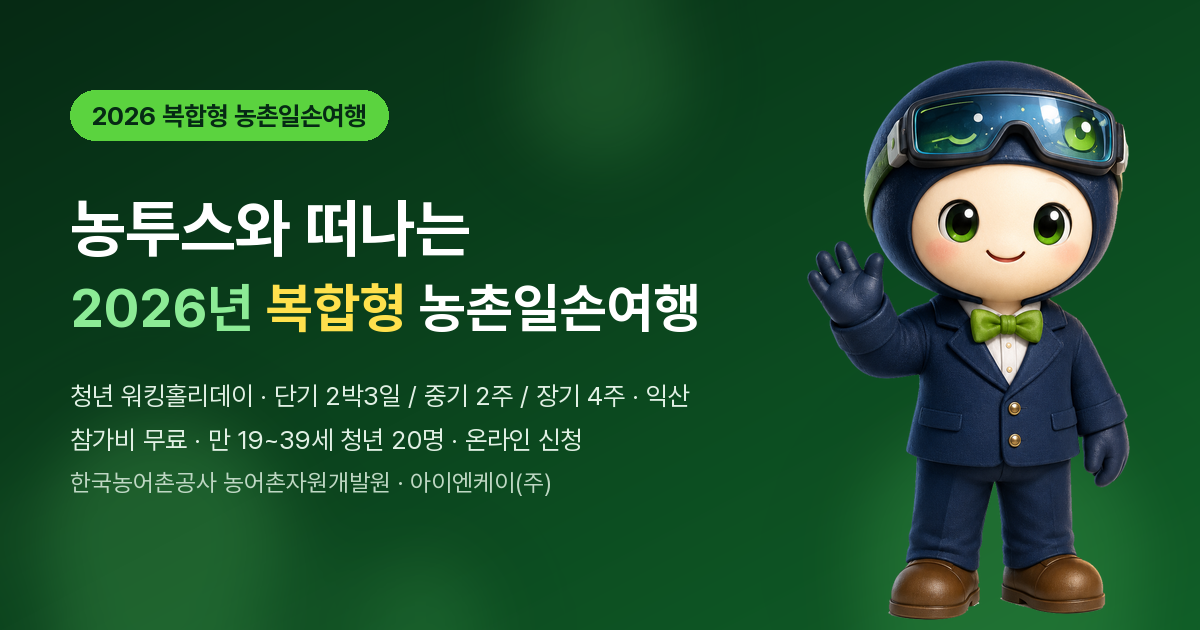
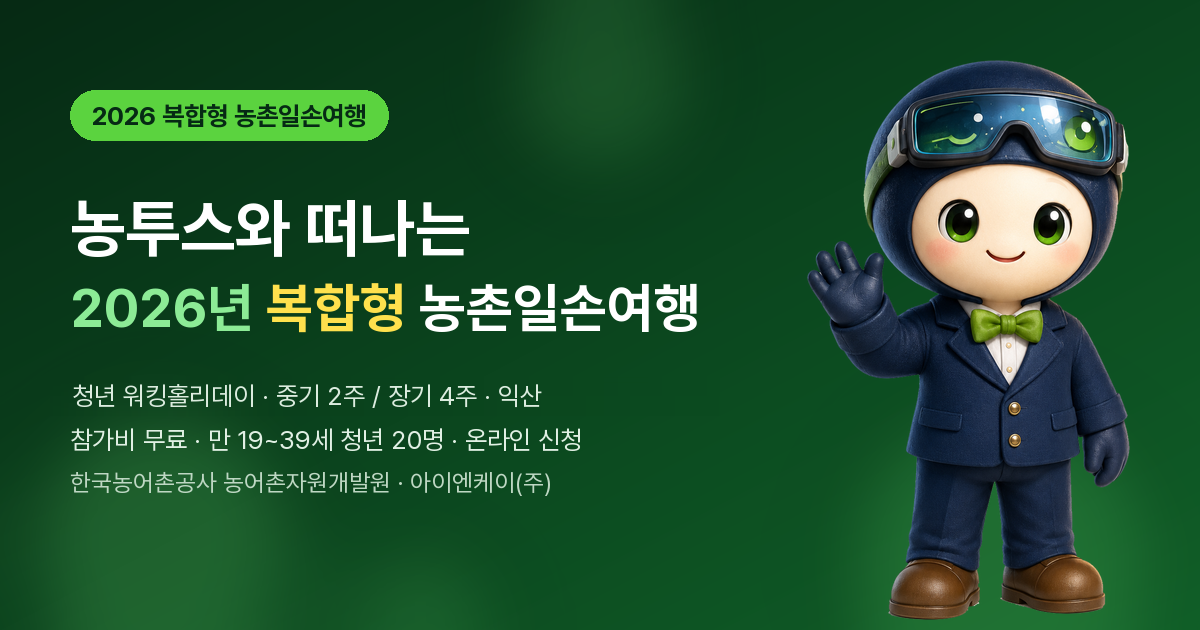
youth gateway: 단기형 공개 차단·미리보기 이미지 갱신(card_v2) → https://exception-portfolio-latter-compact.trycloudflare.com

Changed region(s): [[0.0617, 0.6032, 0.5858, 0.6635]]

diff --git a/gov/index.html b/gov/index.html
@@ -4,7 +4,7 @@
 <title>2026 복합형 농촌일손여행 운영 현황</title>
 <meta property="og:title" content="2026 복합형 농촌일손여행 운영 현황">
 <meta property="og:description" content="시범사업 진행·성과지표 실시간 요약 (읽기 전용 · 개인정보 미표시)">
-<meta property="og:image" content="https://hyunjongki.github.io/youth/card.png">
+<meta property="og:image" content="https://hyunjongki.github.io/youth/card_v2.png">
 <meta http-equiv="refresh" content="6;url=https://exception-portfolio-latter-compact.trycloudflare.com/wh/enter?to=gov">
 <style>body{font-family:-apple-system,'Pretendard','Malgun Gothic',sans-serif;background:#eef5fa;
  display:flex;align-items:center;justify-content:center;height:100vh;margin:0;color:#0c3b5a}

diff --git a/long/index.html b/long/index.html
@@ -5,7 +5,7 @@
 <meta property="og:type" content="website">
 <meta property="og:title" content="농투스와 떠나는 2026년 복합형 농촌일손여행 · 장기형 참가신청">
 <meta property="og:description" content="장기형(11.3.~11.30. · 4주 · 10.28.(수) 18:00 마감) 청년 참가자를 모집합니다 — 숙식·체험비 지원 · 익산">
-<meta property="og:image" content="https://hyunjongki.github.io/youth/card.png">
+<meta property="og:image" content="https://hyunjongki.github.io/youth/card_v2.png">
 <meta property="og:image:width" content="1200"><meta property="og:image:height" content="630">
 <meta property="og:url" content="https://hyunjongki.github.io/youth/">
 <meta name="twitter:card" content="summary_large_image">

diff --git a/mid/index.html b/mid/index.html
@@ -5,7 +5,7 @@
 <meta property="og:type" content="website">
 <meta property="og:title" content="농투스와 떠나는 2026년 복합형 농촌일손여행 · 중기형 참가신청">
 <meta property="og:description" content="중기형(10.20.~11.2. · 2주 · 10.15.(목) 18:00 마감) 청년 참가자를 모집합니다 — 숙식·체험비 지원 · 익산">
-<meta property="og:image" content="https://hyunjongki.github.io/youth/card.png">
+<meta property="og:image" content="https://hyunjongki.github.io/youth/card_v2.png">
 <meta property="og:image:width" content="1200"><meta property="og:image:height" content="630">
 <meta property="og:url" content="https://hyunjongki.github.io/youth/">
 <meta name="twitter:card" content="summary_large_image">

diff --git a/404.html b/404.html
@@ -5,7 +5,7 @@
 <meta property="og:type" content="website">
 <meta property="og:title" content="농투스와 떠나는 2026년 복합형 농촌일손여행">
 <meta property="og:description" content="K-농산어촌 청년 워킹홀리데이 · 중기형(2주) 10.15.(목)·장기형(4주) 10.28.(수) 18:00 마감 · 익산 · 참가비 무료">
-<meta property="og:image" content="https://hyunjongki.github.io/youth/card.png">
+<meta property="og:image" content="https://hyunjongki.github.io/youth/card_v2.png">
 <meta property="og:image:width" content="1200"><meta property="og:image:height" content="630">
 <meta property="og:url" content="https://hyunjongki.github.io/youth/">
 <meta name="twitter:card" content="summary_large_image">

diff --git a/index.html b/index.html
@@ -5,7 +5,7 @@
 <meta property="og:type" content="website">
 <meta property="og:title" content="농투스와 떠나는 2026년 복합형 농촌일손여행">
 <meta property="og:description" content="K-농산어촌 청년 워킹홀리데이 · 중기형(2주) 10.15.(목)·장기형(4주) 10.28.(수) 18:00 마감 · 익산 · 참가비 무료">
-<meta property="og:image" content="https://hyunjongki.github.io/youth/card.png">
+<meta property="og:image" content="https://hyunjongki.github.io/youth/card_v2.png">
 <meta property="og:image:width" content="1200"><meta property="og:image:height" content="630">
 <meta property="og:url" content="https://hyunjongki.github.io/youth/">
 <meta name="twitter:card" content="summary_large_image">
